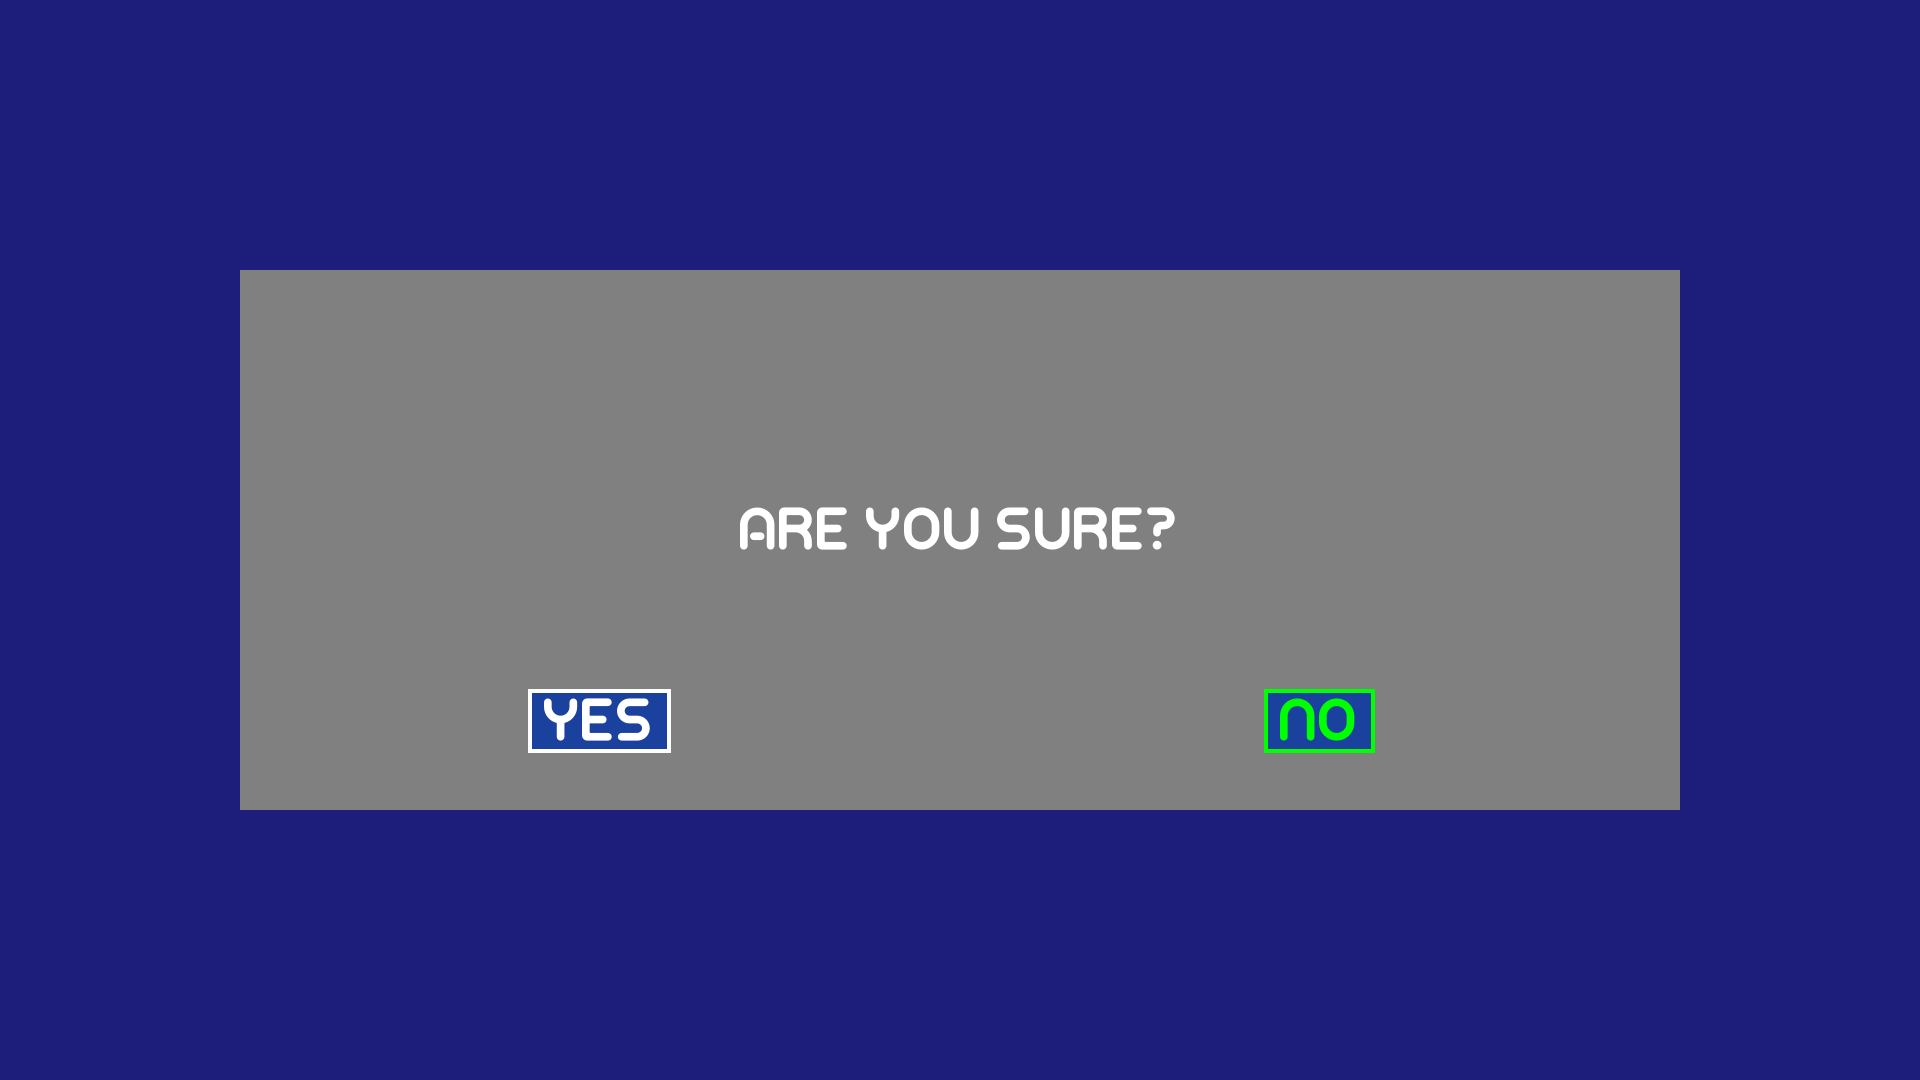
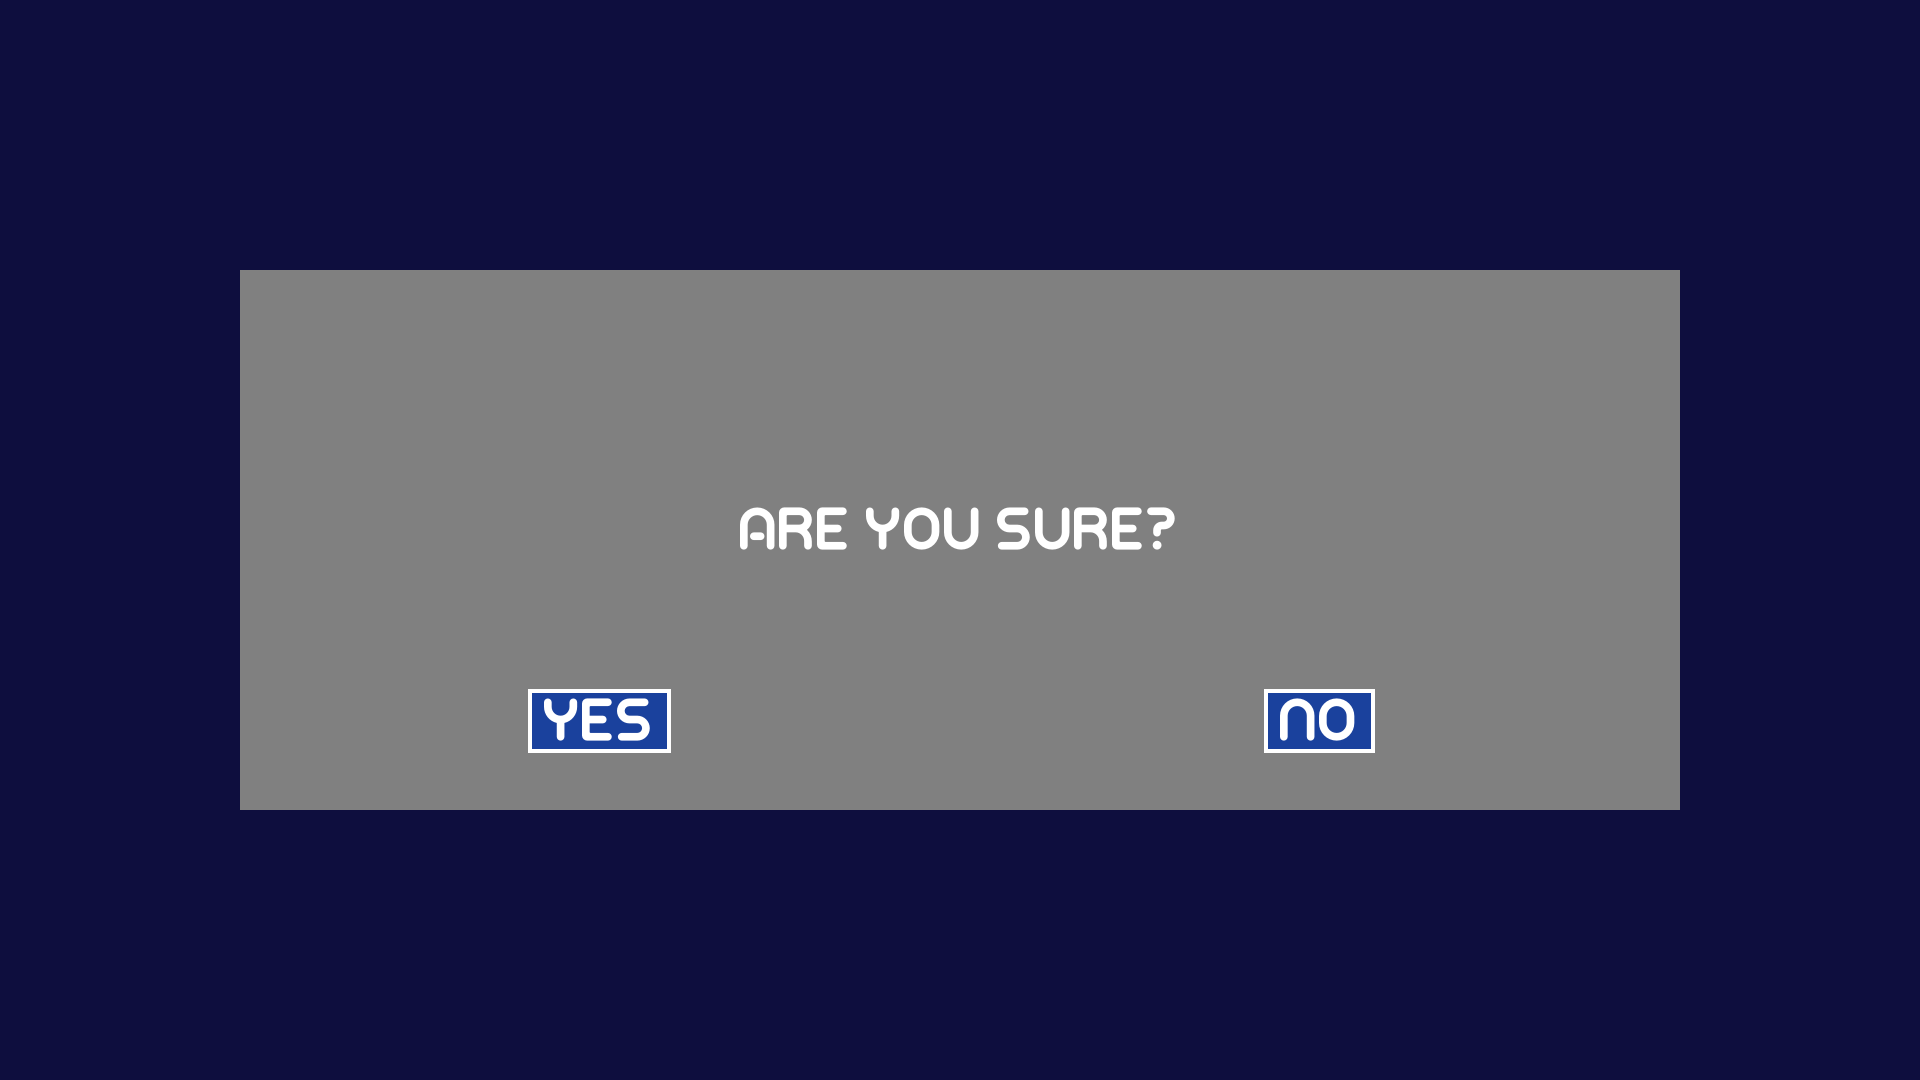
[0.9.8] add dialog tint | update screenshots

diff --git a/src/game/Game.cpp b/src/game/Game.cpp
@@ -34,6 +34,8 @@ namespace tetrablocks {
         m_renderer.beginFrame();
         m_screen->onDraw(m_renderer);
         if (m_dialog) {
+            m_renderer.fill(0x80000000);
+            m_renderer.rect(0,0,static_cast<float>(m_view.x),static_cast<float>(m_view.y));
             m_dialog->onDraw(m_renderer);
         }
         m_renderer.endFrame();

diff --git a/readme.md b/readme.md
@@ -26,7 +26,7 @@ Pause dialog:
 Game :
 ![game](/screenshots/img_game.png)
 Game Over dialog:
-![game over](/screenshots/img_game_over.png)
+![game over](/screenshots/img_dialog_end.png)
 
 
 note: green buttons (or text in rectangles) are hovered by cursor which isn't captured
